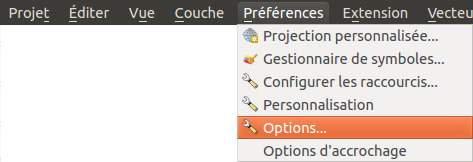
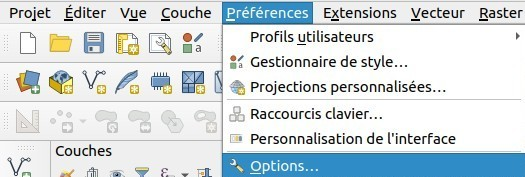
debut maj numerisation : captures d'écran + mini-modifs

diff --git a/05_02_points.php b/05_02_points.php
@@ -60,7 +60,7 @@
 				<img src="illustrations/5_2_couche_editable.jpg" alt="symbole de crayon à gauche d'une couche éditable" width="170">
 				<p>La couche est maintenant modifiable.</p>
 				<p>Dans QGIS, le passage en mode édition est géré &#171; par couches &#187; : certaines couches peuvent être éditables et d'autres non. Il est facile de voir dans la table des matières quelle couche est éditable.</p>
-				<p><b>De manière générale, il vaut mieux quitter le mode édition dès que vous n'en avez plus besoin, et limiter le nombre de couches éditables.</b></p>
+				<p><b>De manière générale, il vaut mieux quitter le mode édition dès que vous n'en avez plus besoin, et limiter le nombre de couches éditables</b> (l'idéal étant de ne jamais avoir plus d'une seule couche en mode édition).</p>
 				<p>Les couches raster ne sont jamais modifiables : si vous sélectionnez la carte de l'île d'Oahu, le passage en mode édition n'est pas possible pour cette couche.</p>
 			
 			<h3>Ajout d'un point<a class="headerlink" id="V22" href="#V22"></a></h3>
@@ -106,14 +106,14 @@
 			
 			<h3>Modification d'un point<a class="headerlink" id="V23" href="#V23"></a></h3>
 				
-				<p>Il peut arriver bien sûr de vouloir modifier un point déjà existant, soit que vous vouliez le déplacer, soit que vous souhaitiez modifier ses données attributaires.</p>
+				<p>Il peut arriver bien sûr de vouloir modifier un point déjà existant, soit pour le déplacer, soit pour modifier ses données attributaires.</p>
 				
 				<h4>Déplacement<a class="headerlink" id="V23a" href="#V23a"></a></h4>
 				
 					<p>Imaginons qu'un de vos points soit mal placé et que vous vouliez le déplacer.</p>
 					<div class="manip">
 						<p>La couche doit être en mode édition.</p>
-						<p>Il faut également <b>activer la barre d'outils de numérisation avancée</b> : clic droit sur n'importe quelle barre d'outils (sauf sur un outil désactivé) et cochez si ça n'est pas déjà le cas la case Barre d'outils de numérisation avancée. Vous pouvez également passer par le menu Vue &#8594; Barres d'outils.</p>
+						<p>Il faut également <b>activer la barre d'outils de numérisation avancée</b> : menu Vue &#8594; Barres d'outils, cocher <b>Numérisation avancée</b> si ça n'est pas déjà fait.</p>
 						<p><img class="icone" src="illustrations/5_2_deplacer_icone.jpg" alt="icône déplacer l'entité" >Sélectionnez votre couche de bâtiments dans la table des matières, puis cliquez sur l'icône <b>Déplacer l'entité</b>.</p>
 						<p>Le curseur prend la forme d'une croix. Cliquez sur le point à déplacer, puis cliquez sur l'endroit où vous souhaitez déplacer ce point.</p>
 					</div>
@@ -139,7 +139,7 @@
 				<ul>
 					<li>éviter de faire des modifications par erreur</li>
 					<li>sauvegarder les modifications effectuées</li>
-					<li>certains outils SIG ne peuvent fonctionner sur une couche en cours d'édition</li>
+					<li>certains outils ne peuvent fonctionner sur une couche en cours d'édition</li>
 				</ul>
 				<div class="manip">
 					<p><img class="icone" src="illustrations/5_2_edition_icone.jpg" alt="icône basculer en mode édition">Sélectionnez votre couche dans la table des matières et cliquez sur l'icône <b>basculer en mode édition</b>.</p>

diff --git a/05_03_donnees_attrib.php b/05_03_donnees_attrib.php
@@ -16,7 +16,7 @@
 				</ul>
 				<br>
 				
-			<p>Cette partie est tout à fait optionnelle pour suivre la suite du chapitre. Elle pourra néanmoins vous faire gagner du temps si vous vous apprêtez à saisir des données sous QGIS...</p>
+			<p>Cette partie est tout à fait optionnelle pour suivre la suite de cette partie sur la numérisation. Elle pourra néanmoins vous faire gagner du temps si vous vous apprêtez à saisir des données sous QGIS...</p>
 
 			
 			<h3>Saisir les données : à la création de l'entité ou dans la table<a class="headerlink" id="V31" href="#V31"></a></h3>
@@ -72,13 +72,13 @@
 					</figure>
 				</div>
 				
-				<p>Notez que cette liste déroulante sera également utilisable dans la fenêtre de saisie des attributs, si la case <b>Supprimer les fenêtres d'avertissement lors de la création de chaque entité</b> des options de numérisation est décochée (cf. plus haut).</p>
+				<p>Notez que cette liste déroulante sera également utilisable dans la fenêtre de saisie des attributs, si la case <b>Supprimer la fenêtre de saisie des attributs lors de la création de chaque entité</b> des options de numérisation est décochée (cf. plus haut).</p>
 				<figure>
 				    <a href="illustrations/5_3_liste_fenetre.jpg" >
 				        <img src="illustrations/5_3_liste_fenetre.jpg" alt="la fenêtre de saisie des attributs, avec la liste déroulante" width="370">
 				    </a>
 				</figure>
-				<p>Pour en savoir plus, les différents outils d'édition sont décrits dans le <a class="ext" target="_blank" href="https://docs.qgis.org/3.22/fr/docs/user_manual/working_with_vector/vector_properties.html#configure-the-field-behavior" >manuel QGIS</a>.</p>
+				<p>Pour en savoir plus, les différents outils d'édition sont décrits dans le <a class="ext" target="_blank" href="https://docs.qgis.org/latest/fr/docs/user_manual/working_with_vector/vector_properties.html#configure-the-field-behavior" >manuel QGIS</a>.</p>
 				
 				<p>Dans le chapitre suivant, dessinez des lignes avec QGIS&nbsp;!</p>
 				

diff --git a/05_00_numerisation.php b/05_00_numerisation.php
@@ -10,7 +10,7 @@
 		<div class="main">
 			<h1>V. Numérisation</h1>
 			<p>La numérisation consiste à « dessiner » par exemple les contours de parcelles en se basant sur une couche déjà existante, ordinairement un raster. On obtient ainsi une couche vecteur, plus facilement exploitable. Le principe est le même que lorsqu'on superpose une feuille de papier calque à une carte pour y dessiner les éléments qui nous intéressent. Il est ensuite possible de lier des données attributaires à cette couche.</p>
-			<p>Dans ce chapitre, nous allons numériser des données de la carte de l'île d'Oahu (Hawaii) de 1902 (source : <a class="ext" target="_blank" href="http://commons.wikimedia.org/wiki/File%3A1902_Land_Office_Map_of_the_Island_of_Oahu%2C_Hawaii_(_Honolulu_)_-_Geographicus_-_OhauHawaii-lo-1902.jpg">Wikimedia</a> ) géoréférencée dans le chapitre précédent. Si vous ne l'avez pas géoréférencée, pas de problème : elle est inclue dans les données du chapitre.</p>
+			<p>Dans ce chapitre, nous allons numériser des données de la carte de l'île d'Oahu (Hawaii) de 1902 (source : <a class="ext" target="_blank" href="http://commons.wikimedia.org/wiki/File%3A1902_Land_Office_Map_of_the_Island_of_Oahu%2C_Hawaii_(_Honolulu_)_-_Geographicus_-_OhauHawaii-lo-1902.jpg">Wikimedia</a>) géoréférencée dans le chapitre précédent. Si vous ne l'avez pas géoréférencée, pas de problème : elle est inclue dans les données du chapitre.</p>
 			<p>Notions abordées :</p>
 				<ul>
 					<li>Création d'une couche vide</li>

diff --git a/05_04_lignes.php b/05_04_lignes.php
@@ -54,7 +54,7 @@
     					<p>Passez en mode édition pour votre couche de fleuves.</p>
     					<p><img class="icone" src="illustrations/5_4_ajout_icone.jpg" alt="icône ajouter une entité linéaire">Cliquez sur l'icône <b>Ajouter une entité linéaire</b>. Attention, elle ressemble beaucoup à l'icône pour créer une nouvelle couche shapefile&nbsp;!</p>
     					<p class="note">Vous remarquerez que cette icône varie en fonction du type de couche éditée : point, ligne ou polygone.</p>
-    					<p>Cliquez sur le début du fleuve pour créer un premier sommet, puis rajoutez d'autres points à votre ligne. Pour terminer, faites un clic-droit n'importe où.</p>
+    					<p>Cliquez sur le début du fleuve pour créer un premier sommet, puis rajoutez d'autres points à votre ligne. Pour terminer, faites un clic-droit n'importe où (ce clic ne sera pas pris en compte mais termine la saisie).</p>
     					<figure>
     						<a href="illustrations/5_4_fleuve.jpg" >
     							<img src="illustrations/5_4_fleuve.jpg" alt="fleuve numérisé" width="500">

diff --git a/05_05_polygones.php b/05_05_polygones.php
@@ -121,6 +121,7 @@
 			<h3>Frontière commune entre 2 polygones&nbsp;: comment est-elle gérée ?<a class="headerlink" id="V54" href="#V54"></a></h3>
 			
 				<div class="manip">
+				  <p>Commencez par donner de la transparence à votre couche de polygones (propriétés de la couche &#8594; Symbologie &#8594; baisser l'opacité), ou bien réglez le style pour n'afficher que les bordures (remplissage transparent).</p>
 					<p><img class="icone" src="illustrations/5_4_noeud_icone.jpg" alt="icône de l'outil de noeud" >A l'aide de <a href="05_04_lignes.php#V43">l'outil de nœud</a>, déplacez un sommet de la petite langue de terre d'Aiea.</p>
 					<figure>
 						<a href="illustrations/5_5_deplacement_noeud.jpg" >
